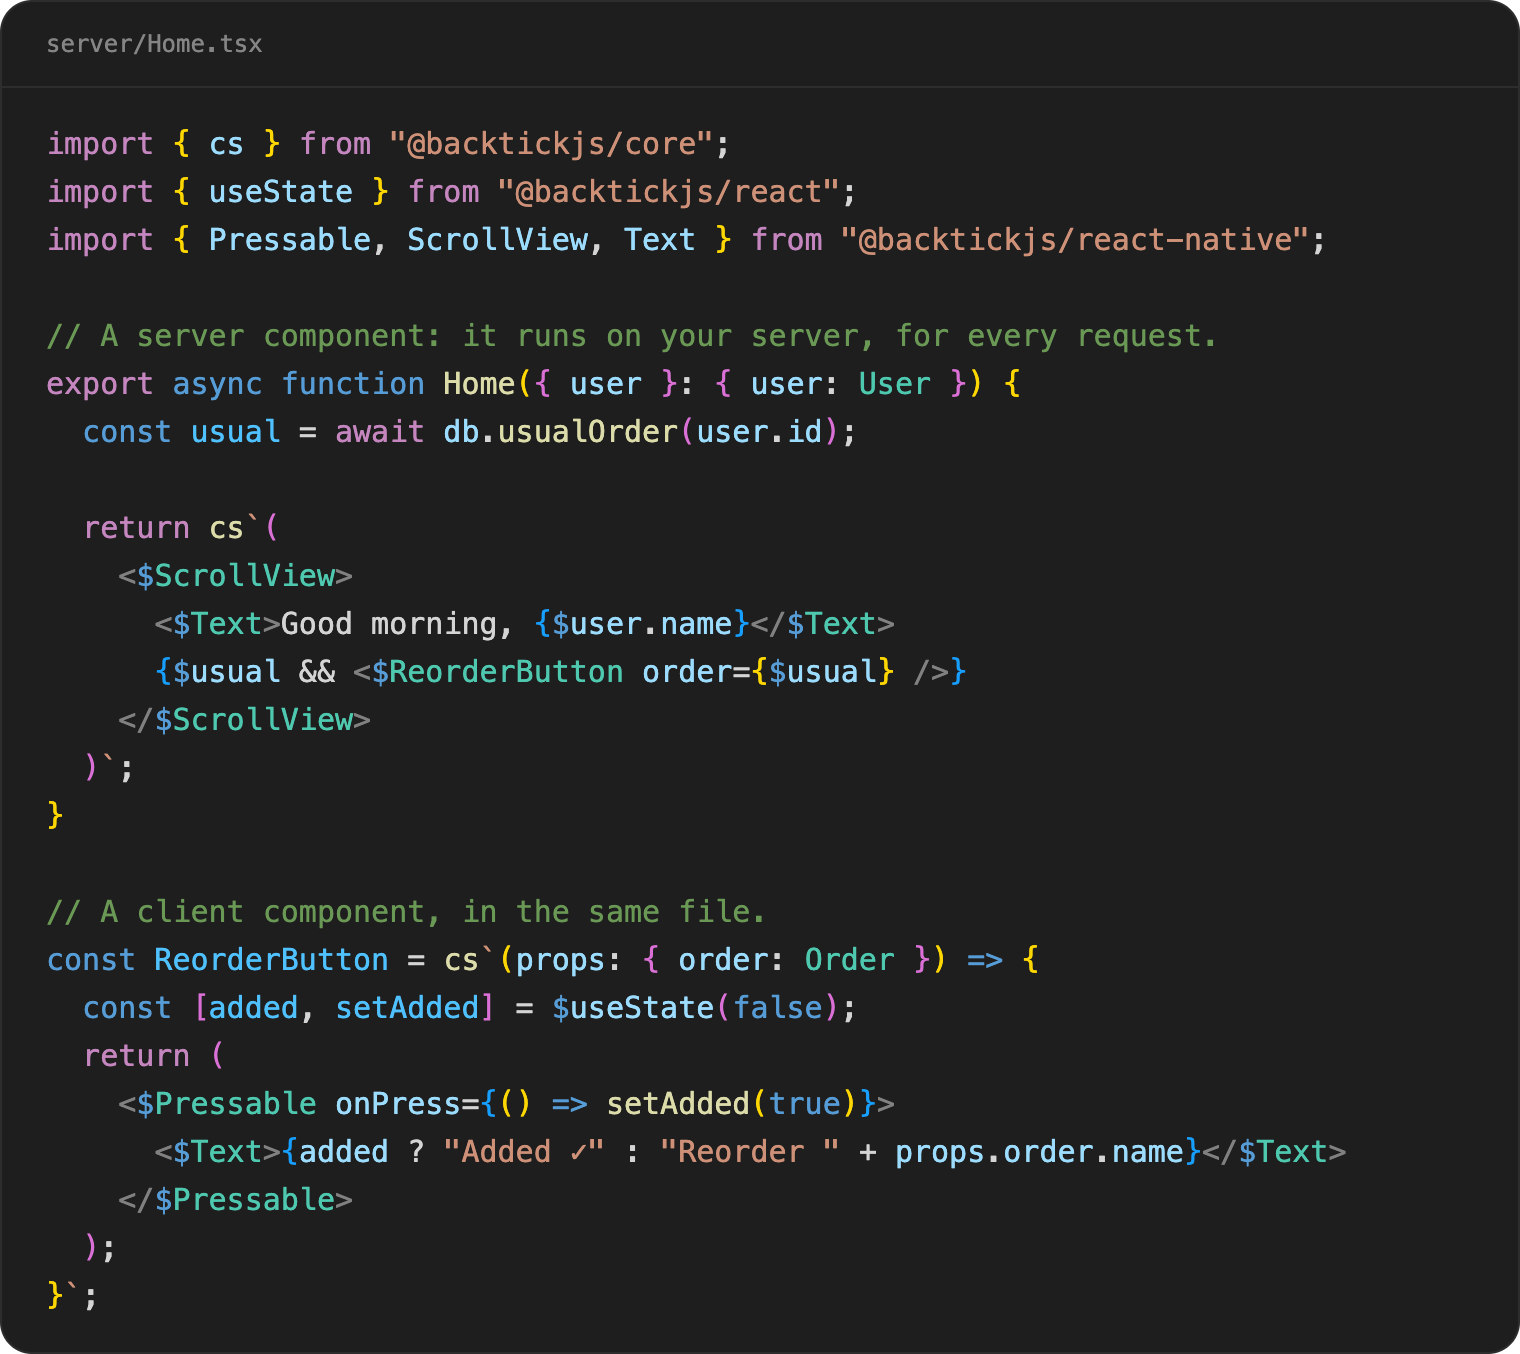
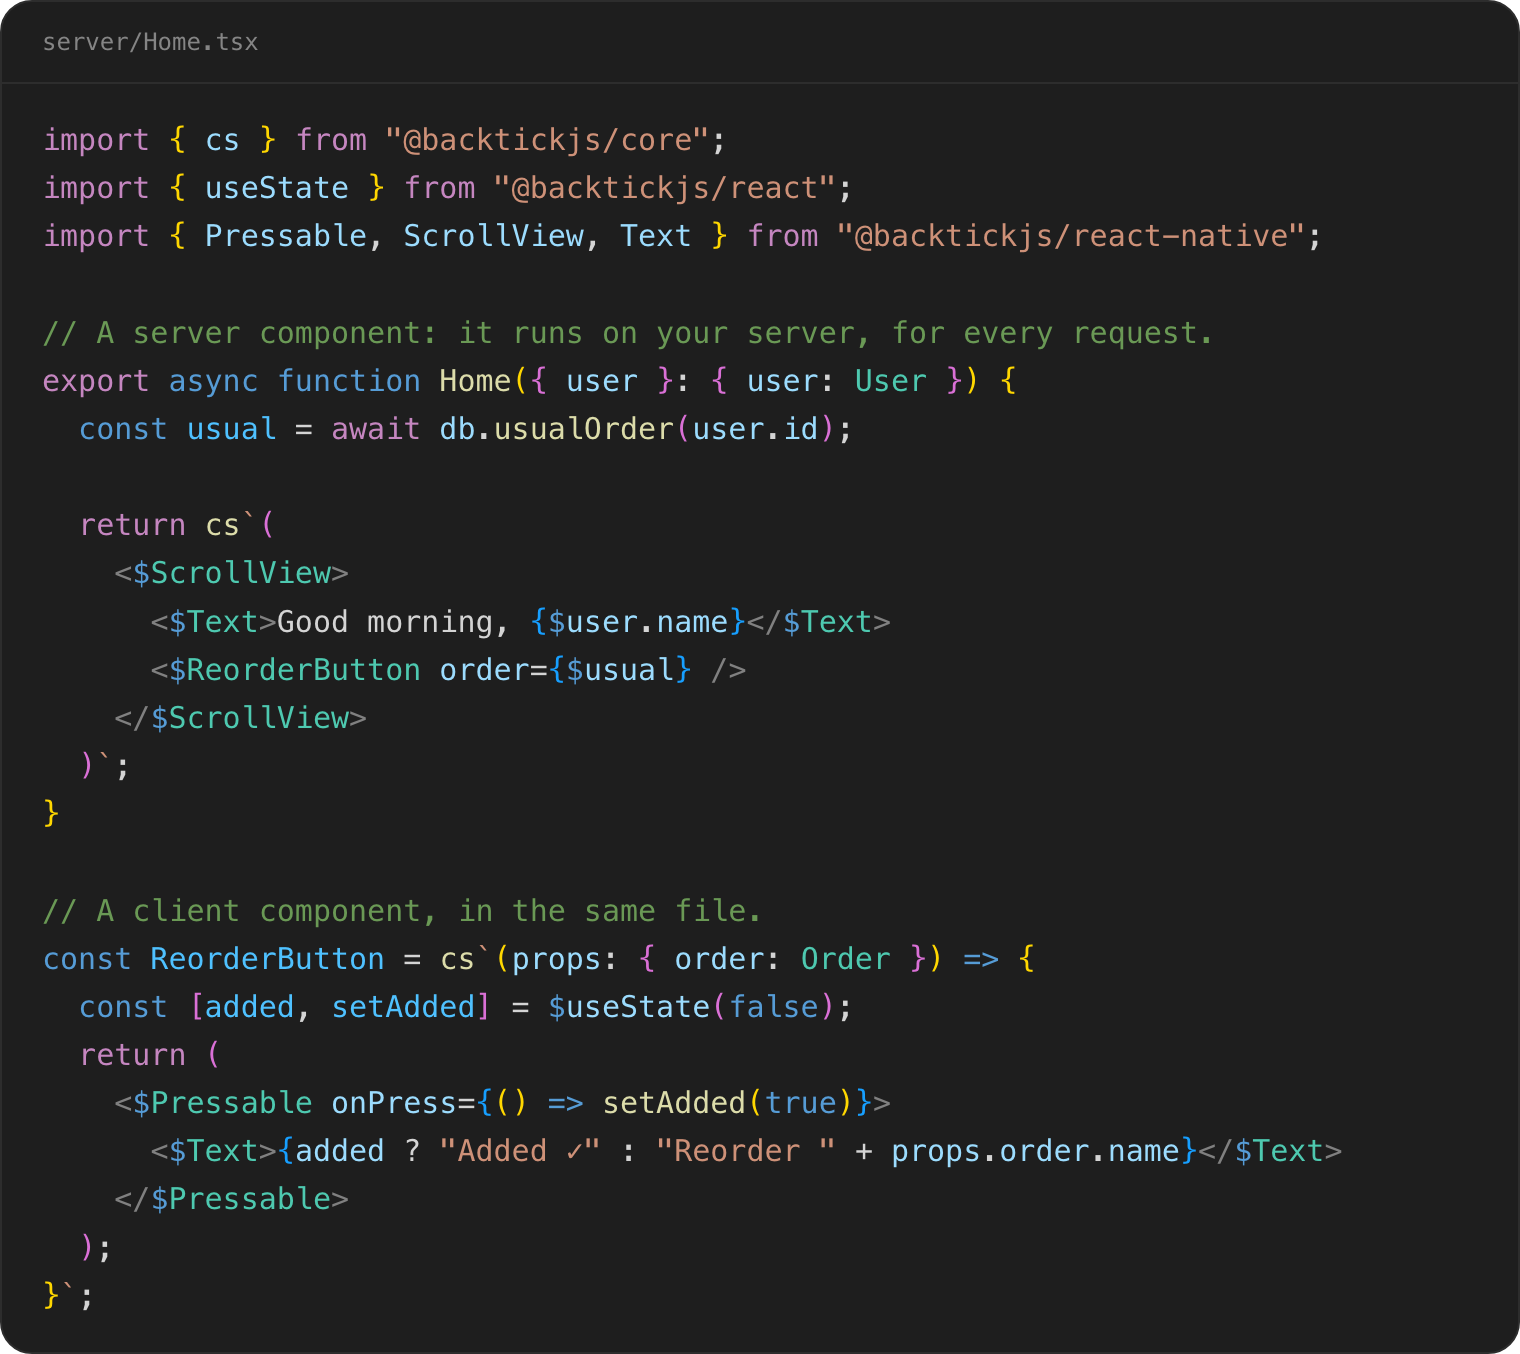
Remove $usual && from the x-header

diff --git a/apps/backtickjs.com/src/samples.ts b/apps/backtickjs.com/src/samples.ts
@@ -44,7 +44,7 @@ export async function Home({ user }: { user: User }) {
   return cs\`(
     <$ScrollView contentContainerStyle={$screen}>
       <$Text style={$greeting}>Good morning, {$user.name}</$Text>
-+      {$promo && <$PromoBanner promo={$promo} />}
++      <$PromoBanner promo={$promo} />
 
       {$picks.map((pick) => (
         <$ProductCard key={pick.id} product={pick} />
@@ -73,8 +73,8 @@ export async function Home({ user }: { user: User }) {
   return cs\`(
     <$ScrollView contentContainerStyle={$screen}>
       <$Text style={$greeting}>Good morning, {$user.name}</$Text>
-      {$promo && <$PromoBanner promo={$promo} />}
-+      {$usual && <$ReorderButton order={$usual} />}
+      <$PromoBanner promo={$promo} />
++      <$ReorderButton order={$usual} />
 
       {$picks.map((pick) => (
         <$ProductCard key={pick.id} product={pick} />

diff --git a/README.md b/README.md
@@ -59,7 +59,7 @@ export async function Home({ user }: { user: User }) {
   return cs`(
     <$ScrollView>
       <$Text>Good morning, {$user.name}</$Text>
-      {$usual && <$ReorderButton order={$usual} />}
+      <$ReorderButton order={$usual} />
     </$ScrollView>
   )`;
 }
